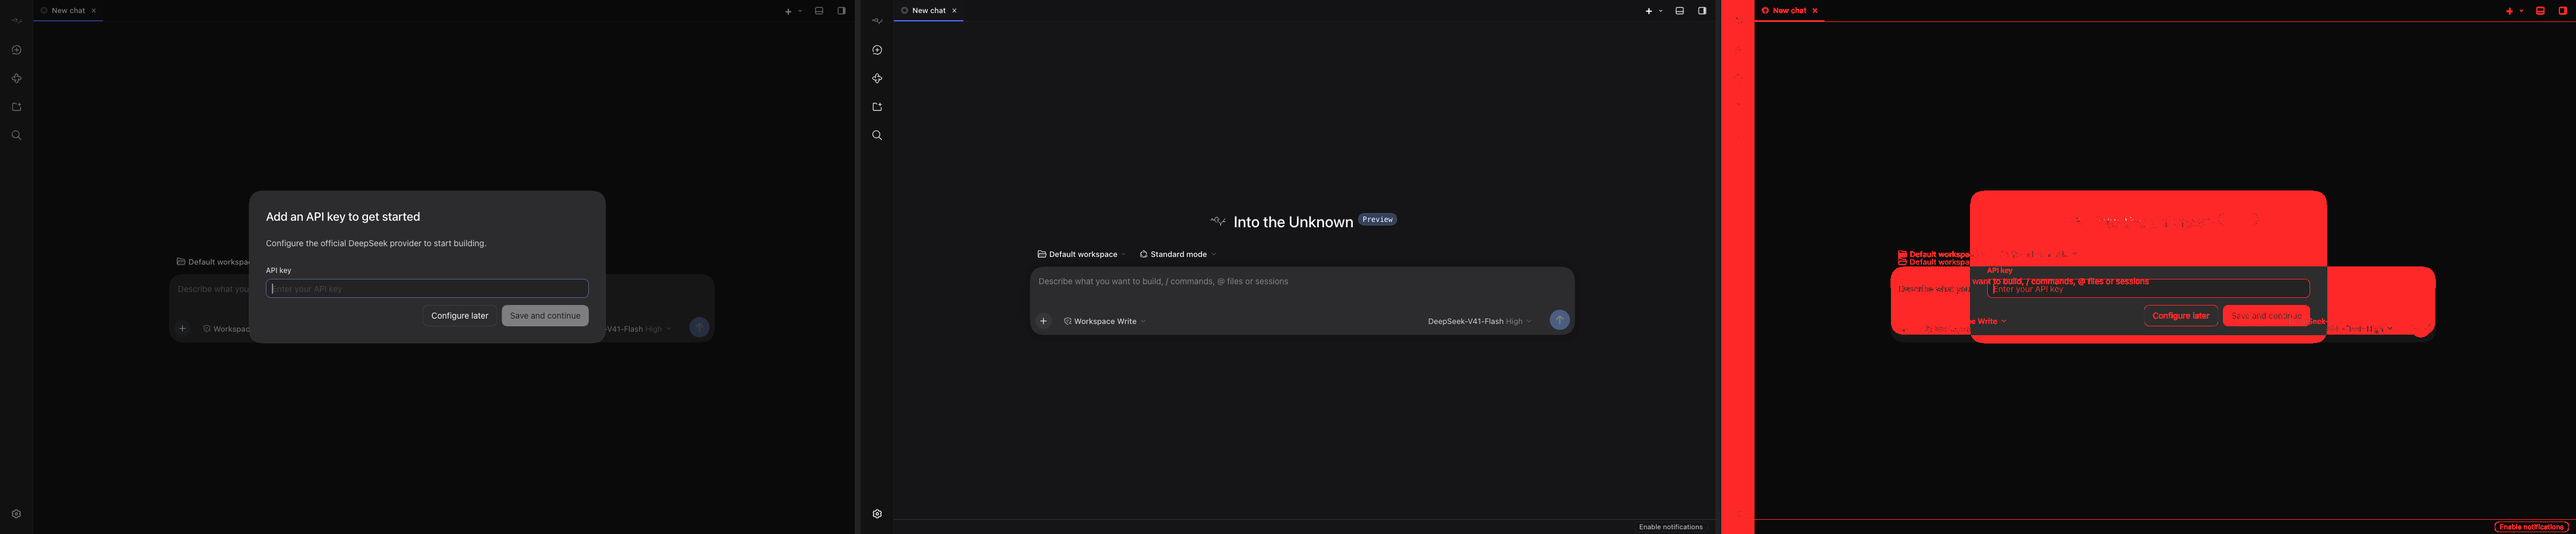
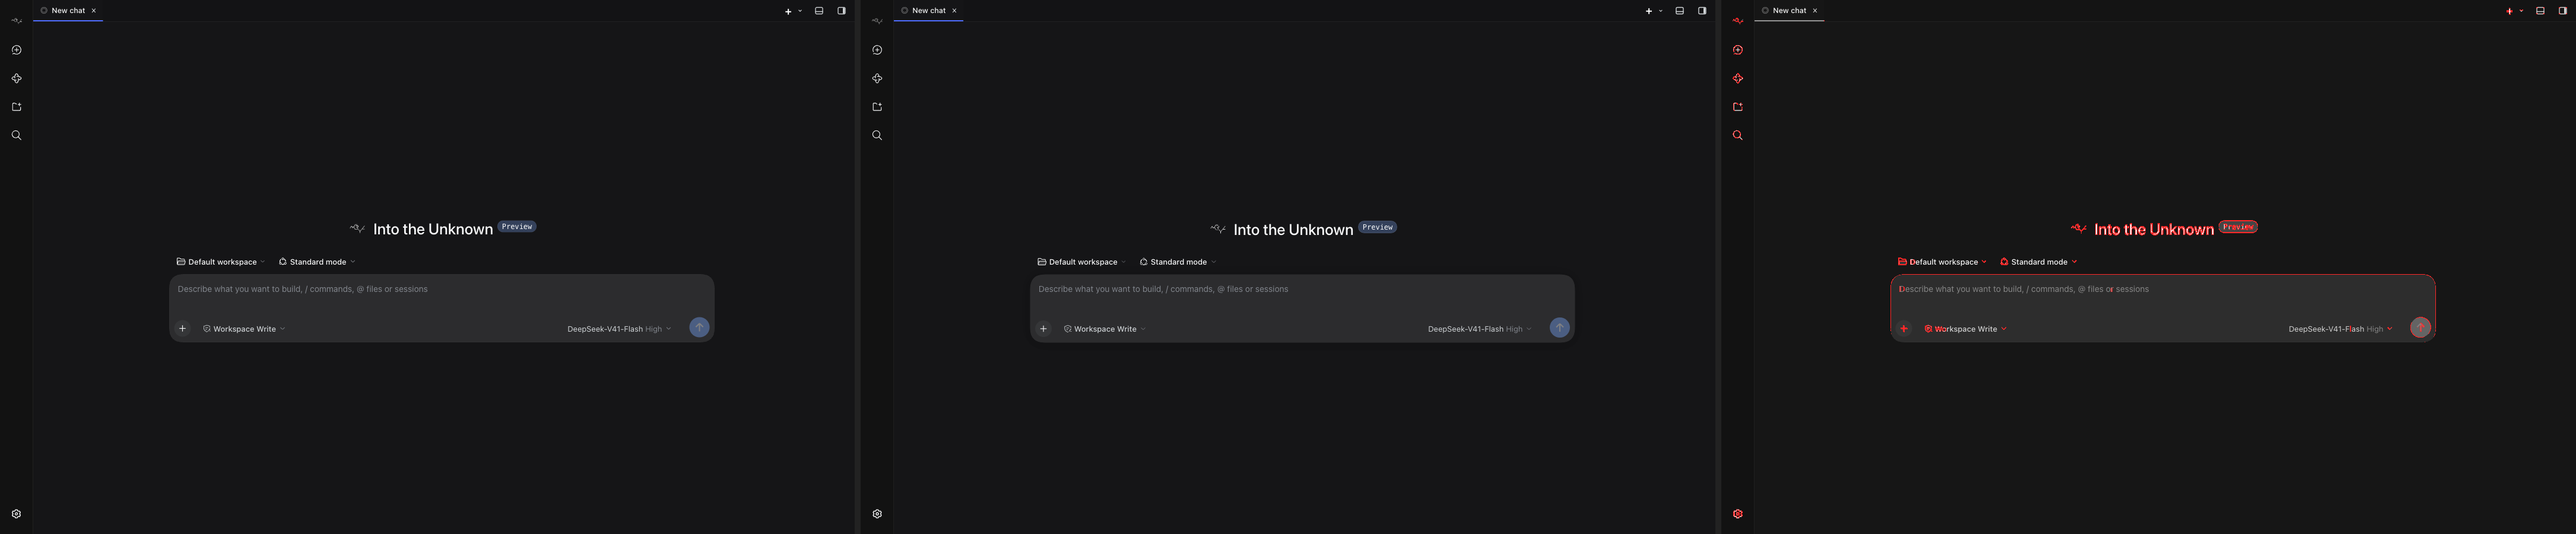
docs(plans): slice 2's comparison with the recaptured reference
13 of 18 views within 2%: the frame in both themes at both viewports, the collapsed sidebar and the terminal tab pass, and right-panel-open passes at 1440 (1.80%) while 1024 misses by 0.28 points because the desktop reference carries DSH's desktop-only Browser tab row, which the web bundle disables for non-desktop profiles. The remaining settings views miss by 0.2 to 1.95 points and are not slice 2 targets.

diff --git a/docs/plans/ide-slice2-frame-comparison.md b/docs/plans/ide-slice2-frame-comparison.md
@@ -1,68 +1,66 @@
 # Slice 2: the frame comparison
 
-The ACRYL frame after slice 2's client half is wired: the workspace canvas, the Projects left pane, the
-right panel and real terminal tabs, on the same page DSH serves. This note records the comparison with the
-ACRYL reference set, the numbers, and what still keeps some views above 2%. The gate is
-`node scripts/frame-compare.mjs check scripts/frame-reference <url> <out> --max 2` against an app booted from
-this checkout (18 views: 9 names at 1440x900 and 1024x768). The numbers below are from the alpha-aware
-comparison (main `dcbb451b`: a reference pixel with alpha 0 is no colour to compare, the same treatment as a
-masked region).
+The ACRYL frame after slice 2's client half is wired: the workspace canvas, the Projects left pane, the right panel
+and real terminal tabs, on the same page DSH serves. This note records the comparison with the ACRYL reference set
+and its numbers. The gate is `node scripts/frame-compare.mjs check scripts/frame-reference <url> <out> --max 2`
+against an app booted from this checkout (18 views: 9 names at 1440x900 and 1024x768).
+
+The reference set was recaptured on 2026-10-30 with an opaque background, a readiness wait for the ACRYL workspace
+client and DSH's first-run API-key dialog switched off; the method and the history are in
+[`scripts/frame-reference/README.md`](../../scripts/frame-reference/README.md). `frame-compare` also now launches its
+browser with notifications disabled: an unset notification permission adds a 24px "Enable notifications" status
+line to the workspace, which the desktop reference does not have, and that line shifts the centred conversation up by
+half its height.
 
 ## Numbers, 2026-10-30
 
-All 18 views were captured. 4 of 18 are within 2%.
+All 18 views were captured. 13 of 18 are within 2%.
 
 | View | 1440x900 | 1024x768 |
 | --- | --- | --- |
-| frame | 3.66% | 6.23% |
-| frame-dark | 3.66% | 6.23% |
-| frame-light | 2.29% | 3.97% |
-| left-panel-collapsed | 14.32% | 19.60% |
-| right-panel-open | 4.50% | 6.60% |
-| terminal-tab | 0.49% pass | 0.93% pass |
-| settings-general | 3.31% | 4.27% |
-| settings-models | 1.64% pass | 2.99% |
-| settings-shortcuts | 1.87% pass | 2.39% |
+| frame | 0.47% pass | 0.76% pass |
+| frame-dark | 0.47% pass | 0.76% pass |
+| frame-light | 0.47% pass | 0.73% pass |
+| left-panel-collapsed | 0.34% pass | 0.50% pass |
+| right-panel-open | 1.80% pass | 2.28% |
+| terminal-tab | 0.30% pass | 0.52% pass |
+| settings-general | 2.99% | 3.95% |
+| settings-models | 1.32% pass | 2.68% |
+| settings-shortcuts | 1.76% pass | 2.22% |
 
-## Why the remaining views are above 2%
+Two of the three target views pass at both viewports: `left-panel-collapsed` (0.34%, 0.50%) and `terminal-tab`
+(0.30%, 0.52%). `right-panel-open` passes at 1440 (1.80%) and misses at 1024 by 0.28 points.
 
-The reference PNGs are captures of ACRYL's Electron page with a transparent page background: the frame's
-sidebar surface is deliberately transparent (`--dsw-specific-sidebar-fill: transparent` in the shell), and on
-the desktop the native window material shows through it. Those pixels have alpha 0 and are now skipped.
+## The one remaining target miss
 
-What is left in the sidebar is its text and icons, which in the reference were drawn anti-aliased against
-transparency. A glyph's edge pixel stores its opaque-source RGB with a partial alpha (white at, say, alpha
-128), while the web candidate stores the same edge already blended over the page background (`#808080` over
-`#121212`). The comparator reads the RGB channels, so every anti-aliased glyph edge whose alpha is not 0
-counts as differing even where the glyph looks identical. That is the 2.3-6.2% of the frame views. An opaque
-reference background makes those edge pixels comparable, which is what the recapture below does.
+`right-panel-open@1024x768` differs because the reference is a desktop profile and this app is a web profile: DSH's
+web bundle inserts the right sidebar's Browser tab and disables it unless `profileContext.name === 'desktop'`
+(`@deepseek-ai/dsh-web-app`'s patch, `ui-sidebar-browser`). The reference's right panel therefore lists a Browser row
+where this app's lists the next row (Comments); every row below shifts by one. The row is about 1.1% of a 1024x768
+view, and at 1440 the remaining differences stay under 2% anyway.
 
-`left-panel-collapsed` has an independent cause: its reference still carries DSH's "Add an API key to get
-started" dialog, which slice 1 switched off in the generated profile (`credentialOnboarding: false`). The
-dialog's opaque pixels add roughly 9-11%.
+This is a surface rule of the Host, not the frame: the ported sources are byte-identical to ACRYL 37f4dd9c, and on
+the same profile the right panel matches. The choices are a reference captured from ACRYL's web profile for this
+view, or accepting the desktop-only row as out of scope for the web comparison. The threshold stays at 2%.
 
-Two small web-only artifacts also count: DSH's "Enable notifications" prompt in the bottom-right corner, which
-the desktop does not show, and the dock's right-panel list (the reference offers Browser where this build
-offers Comments). Both are being checked against the recapture.
+The four settings views that miss do so by 0.2-1.95 points; they are DSH's own Settings dialog over the frame and
+are not slice 2 targets. `settings-general` is the furthest (2.99/3.95) and is dominated by the dialog's text
+rendering and scroll state.
 
-The candidate images themselves show the product working: `right-panel-open` has Files, Changes, New terminal,
-Review, Checks, Comments and a running terminal in the right column, the Projects tree in the left, and the
-conversation in the middle; `terminal-tab` has a real PTY at the app folder; `left-panel-collapsed` has the
-56px rail. The door's page script runs (`window.__acrylDoor` is a function), and the boot gate asserts the
-rendered frame, the Projects panel and the door script in a real browser.
+## What the numbers show
 
-## Next
-
-1. Recapture the reference set with an opaque background (`Emulation.setDefaultBackgroundColorOverride` set to
-   the frame's own background), the same method and isolated homes as the first set, and with the API-key
-   dialog genuinely absent from the run. The five frame views then compare on real pixels.
-2. Re-run all 18 views and judge the three target views on the new set.
+The frame renders identically enough to ACRYL's own page to pass every frame view, both themes, both viewports, plus
+the collapsed sidebar, the real-PTY terminal tab and two of the Settings views. The candidate images show the
+workspace canvas with the conversation, the Projects tree, the right panel with Files, Changes, Review, Checks and a
+running terminal, and real terminal tabs; the boot gate separately asserts the rendered frame, the Projects panel and
+the door's page script in a real browser.
 
 ## Evidence
 
-- `ide-slice2-frame-evidence/right-panel-open@1440x900.compare.png`
-- `ide-slice2-frame-evidence/terminal-tab@1440x900.compare.png`
+- `ide-slice2-frame-evidence/frame@1440x900.compare.png`
 - `ide-slice2-frame-evidence/left-panel-collapsed@1440x900.compare.png`
+- `ide-slice2-frame-evidence/right-panel-open@1440x900.compare.png`
+- `ide-slice2-frame-evidence/right-panel-open@1024x768.compare.png` (the Browser-row miss)
+- `ide-slice2-frame-evidence/terminal-tab@1440x900.compare.png`
 
-Each image is reference | candidate | difference (red where a pixel differs). The full run's report and all 18
-compare images were produced by the command above.
+Each image is reference | candidate | difference (red where a pixel differs).

diff --git a/docs/README.md b/docs/README.md
@@ -51,7 +51,7 @@ generated Blend app the same names are the vendored plugin source in `plugins/ac
 - [IDE port: the packages and their exact dependencies](plans/ide-port-packages.md) - generated from ACRYL's checkout: what ports, what is replaced, the one peer-dependency change
 - [IDE port, slice 0: the decision record](plans/ide-slice0.md) - the spike: DSH hosts, the framework as profile rows, measured cost, the DSH pin and its upgrade routine
 - [IDE port, slice 1 against ACRYL's desktop](plans/ide-slice1-frame-comparison.md) - the first frame comparison: the numbers, what matches, and what each difference belongs to
-- [IDE port, slice 2: the frame comparison](plans/ide-slice2-frame-comparison.md) - 18 views captured, 4 within 2%: what matches, what the transparent reference costs, and the recapture plan
+- [IDE port, slice 2: the frame comparison](plans/ide-slice2-frame-comparison.md) - 18 views, 13 within 2%: the frame, both themes, the collapsed sidebar and the terminal pass; the one desktop-only right-panel row and the remaining Settings diffs
 - [Workshop outline v2](plans/workshop-outline-v2.md) - the refocused workshop: a visual app built and driven by the agent inside it, with the capability each block depends on
 - [Extending a running app](agent/extending-apps.md) - extensions, the builder, durable tasks; how an agent writes a plugin
 - [The app manifest](blends/manifest.md) - `blend.yaml`: the app as data, parameters, diagnostics, the lock
